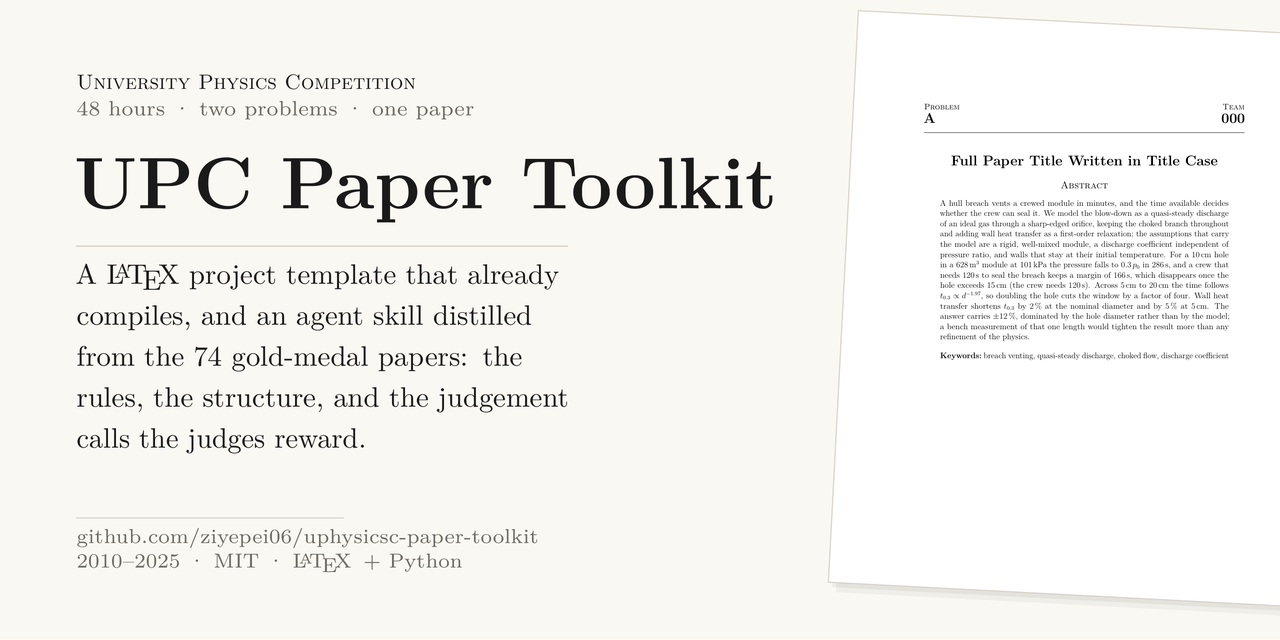
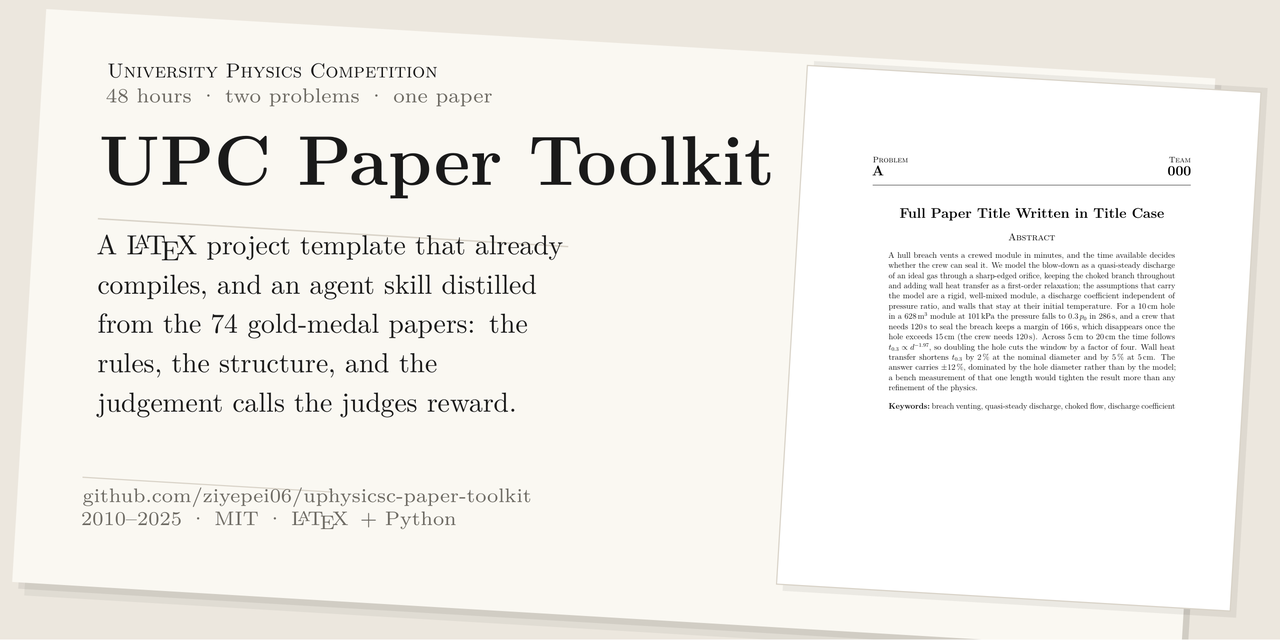
docs: tilt the whole cover, not just the page
The page preview was rotated while the type stayed square, which read as two
objects fighting. The cover is now a single sheet -- type and page inside it
-- laid on a darker desk and rotated 3.4 degrees as one piece.

diff --git a/docs/cover.tex b/docs/cover.tex
@@ -3,54 +3,55 @@
 \usepackage{lmodern}
 \usepackage{microtype}
 \usepackage{graphicx}
-\graphicspath{{../template/}}
-\usetikzlibrary{calc}
 \definecolor{ink}{HTML}{1B1B1B}
 \definecolor{muted}{HTML}{6E6A63}
 \definecolor{paper}{HTML}{FAF8F3}
 \definecolor{rule}{HTML}{D9D3C7}
 \definecolor{card}{HTML}{FFFFFF}
-%% Repository cover. Build:  pdflatex cover.tex  then rasterise cover.pdf
-%% at 1280x640 (GitHub's social-preview size).
+\definecolor{desk}{HTML}{EDE8DE}
 \begin{document}
 \begin{tikzpicture}[x=1cm,y=1cm]
 \clip (0,0) rectangle (16,8);
-\fill[paper] (0,0) rectangle (16,8);
+\fill[desk] (0,0) rectangle (16,8);
 
-% ---- left block -------------------------------------------------------
-\node[anchor=west, text=ink, inner sep=0pt]
-  at (0.95,6.98) {\fontsize{7.4}{9}\selectfont\scshape University Physics Competition};
-\node[anchor=west, text=muted, inner sep=0pt]
-  at (0.95,6.62) {\fontsize{7.4}{9}\selectfont 48 hours \textperiodcentered\ two problems \textperiodcentered\ one paper};
+\begin{scope}[rotate around={-3.4:(8,4)}]
+  % ---- the sheet ------------------------------------------------------
+  \fill[black, opacity=0.05] (0.52,0.10) rectangle (15.08,7.28);
+  \fill[black, opacity=0.07] (0.44,0.18) rectangle (15.08,7.36);
+  \fill[paper] (0.36,0.26) rectangle (15.00,7.44);
 
-\node[anchor=west, align=left, text=ink, inner sep=0pt]
-  at (0.92,5.62) {\fontsize{26}{30}\selectfont\bfseries UPC Paper Toolkit};
+  % ---- left block -----------------------------------------------------
+  \node[anchor=west, text=ink, inner sep=0pt]
+    at (1.16,6.72) {\fontsize{7.2}{9}\selectfont\scshape University Physics Competition};
+  \node[anchor=west, text=muted, inner sep=0pt]
+    at (1.16,6.38) {\fontsize{7.2}{9}\selectfont 48 hours \textperiodcentered\ two problems \textperiodcentered\ one paper};
 
-\draw[rule, line width=0.5pt] (0.95,4.92) -- (7.10,4.92);
+  \node[anchor=west, text=ink, inner sep=0pt]
+    at (1.13,5.50) {\fontsize{25}{29}\selectfont\bfseries UPC Paper Toolkit};
 
-\node[anchor=north west, align=left, text=ink, inner sep=0pt, text width=6.15cm]
-  at (0.95,4.70) {\fontsize{10}{14.6}\selectfont
-  A \LaTeX{} project template that already compiles, and an agent skill
-  distilled from the 74 gold-medal papers: the rules, the structure, and the
-  judgement calls the judges reward.\par};
+  \draw[rule, line width=0.5pt] (1.16,4.86) -- (7.05,4.86);
 
-\draw[rule, line width=0.4pt] (0.95,1.52) -- (4.30,1.52);
-\node[anchor=north west, text=muted, inner sep=0pt]
-  at (0.95,1.40) {\fontsize{7.2}{10}\selectfont github.com/ziyepei06/uphysicsc-paper-toolkit};
-\node[anchor=north west, text=muted, inner sep=0pt]
-  at (0.95,1.08) {\fontsize{7.2}{10}\selectfont 2010--2025 \textperiodcentered\ MIT \textperiodcentered\ \LaTeX\, + Python};
+  \node[anchor=north west, align=left, text=ink, inner sep=0pt, text width=5.85cm]
+    at (1.16,4.66) {\fontsize{9.8}{14}\selectfont\raggedright
+    A \LaTeX{} project template that already compiles, and an agent skill
+    distilled from the 74 gold-medal papers: the rules, the structure, and
+    the judgement calls the judges reward.\par};
 
-% ---- single page, bleeding off the right edge -------------------------
-\begin{scope}[rotate around={-3:(13.05,3.80)}]
-  \fill[black, opacity=0.04] (10.62,0.46) rectangle ++(5.66,7.16);
-  \fill[black, opacity=0.05] (10.57,0.52) rectangle ++(5.66,7.16);
-  \fill[card] (10.52,0.58) rectangle ++(5.66,7.16);
+  \draw[rule, line width=0.4pt] (1.16,1.62) -- (4.30,1.62);
+  \node[anchor=north west, text=muted, inner sep=0pt]
+    at (1.16,1.50) {\fontsize{7}{9.6}\selectfont github.com/ziyepei06/uphysicsc-paper-toolkit};
+  \node[anchor=north west, text=muted, inner sep=0pt]
+    at (1.16,1.20) {\fontsize{7}{9.6}\selectfont 2010--2025 \textperiodcentered\ MIT \textperiodcentered\ \LaTeX\, + Python};
+
+  % ---- page, sticking out of the sheet --------------------------------
+  \fill[black, opacity=0.06] (9.98,0.72) rectangle (15.66,7.36);
+  \fill[card] (9.90,0.80) rectangle (15.58,7.30);
   \begin{scope}
-    \clip (10.52,0.58) rectangle ++(5.66,7.16);
-    \node[anchor=north west, inner sep=0pt] at (10.73,7.52)
-      {\includegraphics[page=1, width=5.24cm]{../template/000A.pdf}};
+    \clip (9.90,0.80) rectangle (15.58,7.30);
+    \node[anchor=north west, inner sep=0pt] at (10.11,7.10)
+      {\includegraphics[page=1, width=5.20cm]{../template/000A.pdf}};
   \end{scope}
-  \draw[rule, line width=0.4pt] (10.52,0.58) rectangle ++(5.66,7.16);
+  \draw[rule, line width=0.4pt] (9.90,0.80) rectangle (15.58,7.30);
 \end{scope}
 \end{tikzpicture}
 \end{document}
